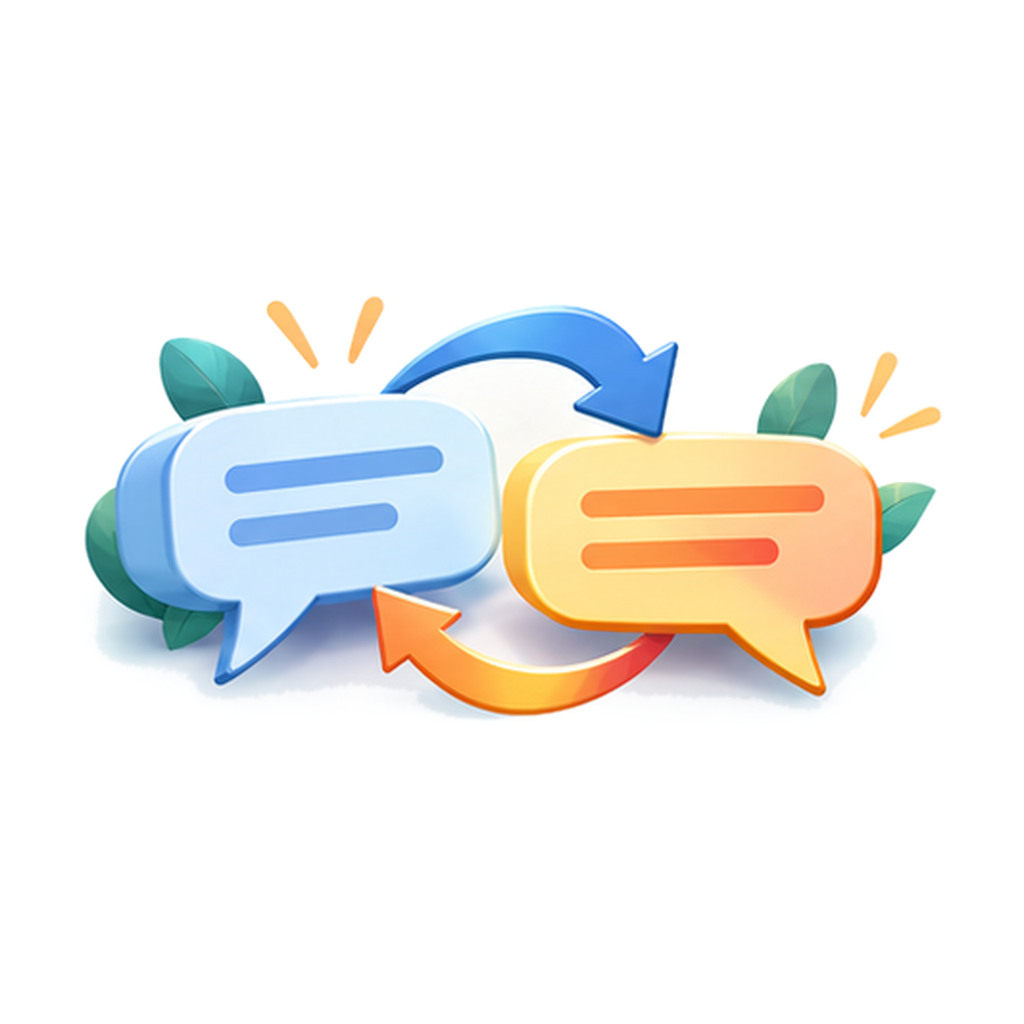
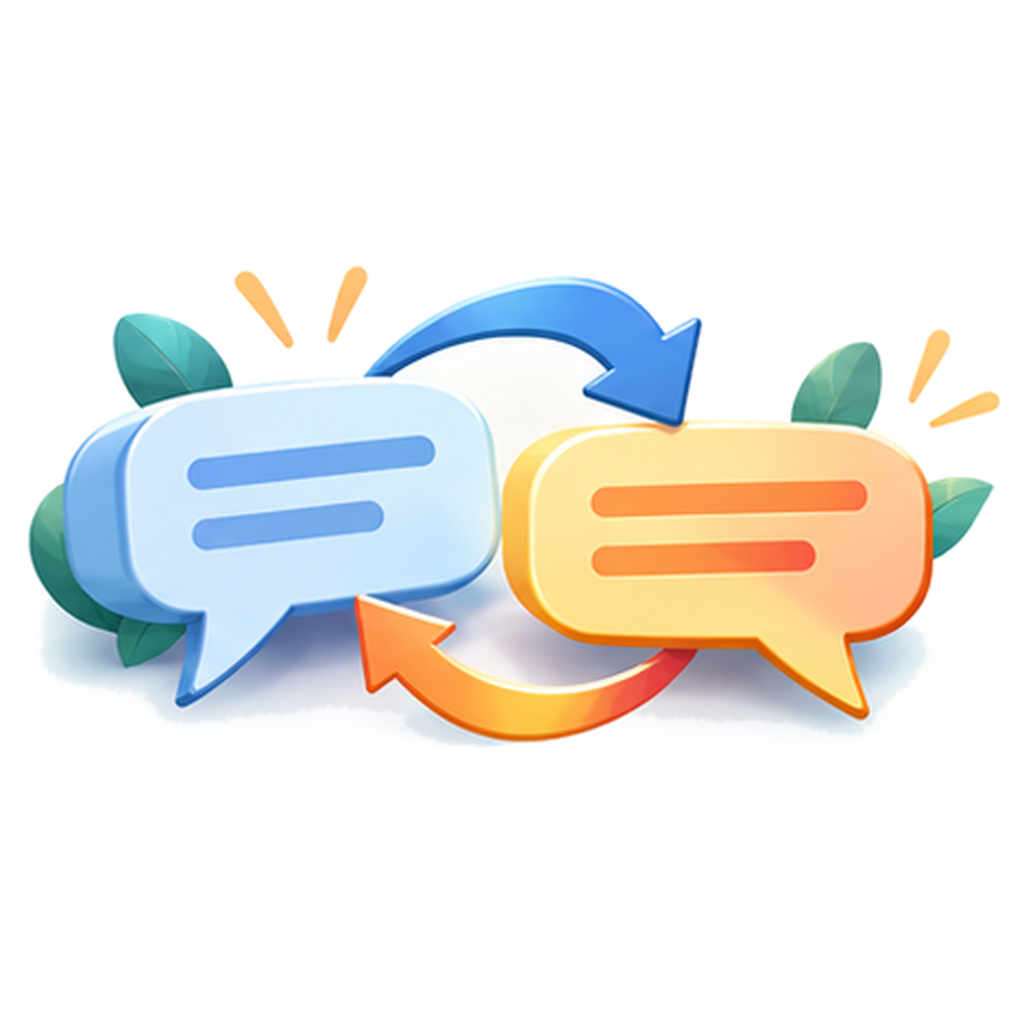
Vocabulary Builder: larger pathway illustrations
Tighter padding in the six pathway PNGs and a larger corner slot (176x156 desktop, 150x130 tablet,
104x88 phone). The slot is absolutely positioned, so card, ladder, evidence and CTA geometry are unchanged.

Claude-Session: https://claude.ai/code/session_01JXQNUWEc5cc3mtFJ4Z7p5M

Changed region(s): [[0.0312, 0.25, 1.0, 0.75], [0.375, 0.5, 0.4062, 0.5312]]

diff --git a/vocabulary-graphics.css b/vocabulary-graphics.css
@@ -19,6 +19,9 @@
 
 /* Pathway illustrations (square): contained in the existing corner slot at a consistent size. */
 .vocab-pathway-card__art .study-art__png{object-fit:contain;object-position:center}
+/* The PNG is a real illustration, so its corner slot is larger than the small SVG glyph's. The slot is absolutely positioned
+   (no grid track), so card height, ladder, evidence and CTA do not move; it is decided at render time (.has-png). */
+.vocab-pathway-card__art.has-png{width:176px;height:156px}
 .vocab-pathway-card__art.has-png.is-png-ready{opacity:.96}
 .vocab-pathway-card:not(:disabled):hover .vocab-pathway-card__art.has-png.is-png-ready{opacity:.86}
 .vocab-pathway-card:disabled .vocab-pathway-card__art.has-png.is-png-ready{opacity:.45;filter:saturate(.55)}
@@ -27,6 +30,7 @@
 
 /* Tablet: keep the SVG column exactly, so the text never reflows; the 16:9 picture simply shows at that width. */
 @media (max-width:1000px){
+  .vocab-pathway-card__art.has-png{width:150px;height:130px}
   .vocab-unit-hero.has-png-art{padding-right:min(31vw,310px)!important}
   .vocab-unit-hero.has-png-art .vocab-unit-hero__art{width:min(28vw,270px)}
 }
@@ -34,3 +38,4 @@
   .vocab-unit-hero.has-png-art{padding-right:18px!important;padding-bottom:166px!important}
   .vocab-unit-hero.has-png-art .vocab-unit-hero__art{width:min(300px,calc(100% - 36px));height:150px}
 }
+@media (max-width:620px){.vocab-pathway-card__art.has-png{width:104px;height:88px}}

diff --git a/tests/vocabulary-graphics-browser.test.js b/tests/vocabulary-graphics-browser.test.js
@@ -94,7 +94,11 @@ for (const [width, height] of WIDTHS) {
       assert.equal(states.filter(state => state.fit === 'cover').length, 1, 'unit banner crops (cover)');
       assert.equal(states.filter(state => state.fit === 'contain').length, 6, 'pathway art is contained at a consistent size');
       const after = await geometry(api);
-      assert.deepEqual(after.cards, before.cards, 'adding the PNGs changes no pathway card, art slot, ladder, evidence or CTA geometry');
+      // The illustration slot is deliberately larger with a PNG (it is absolutely positioned, so it takes no grid space);
+      // everything else on the card (size, ladder, evidence, CTA) must be identical.
+      const withoutArt = cards => cards.map(({ art, ...rest }) => rest);
+      assert.deepEqual(withoutArt(after.cards), withoutArt(before.cards), 'adding the PNGs changes no pathway card, ladder, evidence or CTA geometry');
+      for (const [index, card] of after.cards.entries()) assert.ok(card.art[2] > before.cards[index].art[2] && card.art[2] <= 180, 'the PNG illustration slot is larger than the SVG glyph slot but stays modest');
       assert.ok(after.hero[3] - before.hero[3] <= 40, `the banner does not become dramatically taller (${before.hero[3]} → ${after.hero[3]})`);
       assert.ok(after.heroArt[0] + after.heroArt[2] <= after.hero[0] + after.hero[2], 'the banner art stays inside the banner');
       assert.equal(after.hScroll, false);

diff --git a/docs/vocabulary-graphics.md b/docs/vocabulary-graphics.md
@@ -19,7 +19,7 @@ Nothing else changes. Unlisted files cause no requests. A listed file that fails
 | `pathways/precision-use.png` | 1024×1024, transparent |
 | `pathways/spelling-recall.png` | 1024×1024, transparent |
 
-Layout notes: the unit hero shows the image at about 2.2:1 up to ~380px wide, anchored right; the home unit card crops it (cover) to ~132×104, so keep subjects centre/right and nothing critical at the edges. Pathway art is shown contained in ~128×92 (84×62 on small screens): centred subject with padding.
+Layout notes: the unit hero shows the image at about 2.2:1 up to ~380px wide, anchored right; the home unit card crops it (cover) to ~132×104, so keep subjects centre/right and nothing critical at the edges. Pathway art is shown contained in a ~176×156 corner slot (150×130 tablet, 104×88 phone): centred subject with padding.
 
 ## Shared art direction (prefix every prompt)
 High-quality modern editorial illustration for a premium secondary-school education app. Mature Grade 9–11 visual style. Clean composition, refined geometric forms, believable proportions, subtle depth, soft contemporary colours, crisp edges, restrained detail, professional and intelligent rather than childish. No text, no logos, no labels, no watermarks, no clip-art aesthetic, no exaggerated cartoon faces, no stock-photo look. Designed to remain visually clear when displayed at small-to-medium UI sizes.
